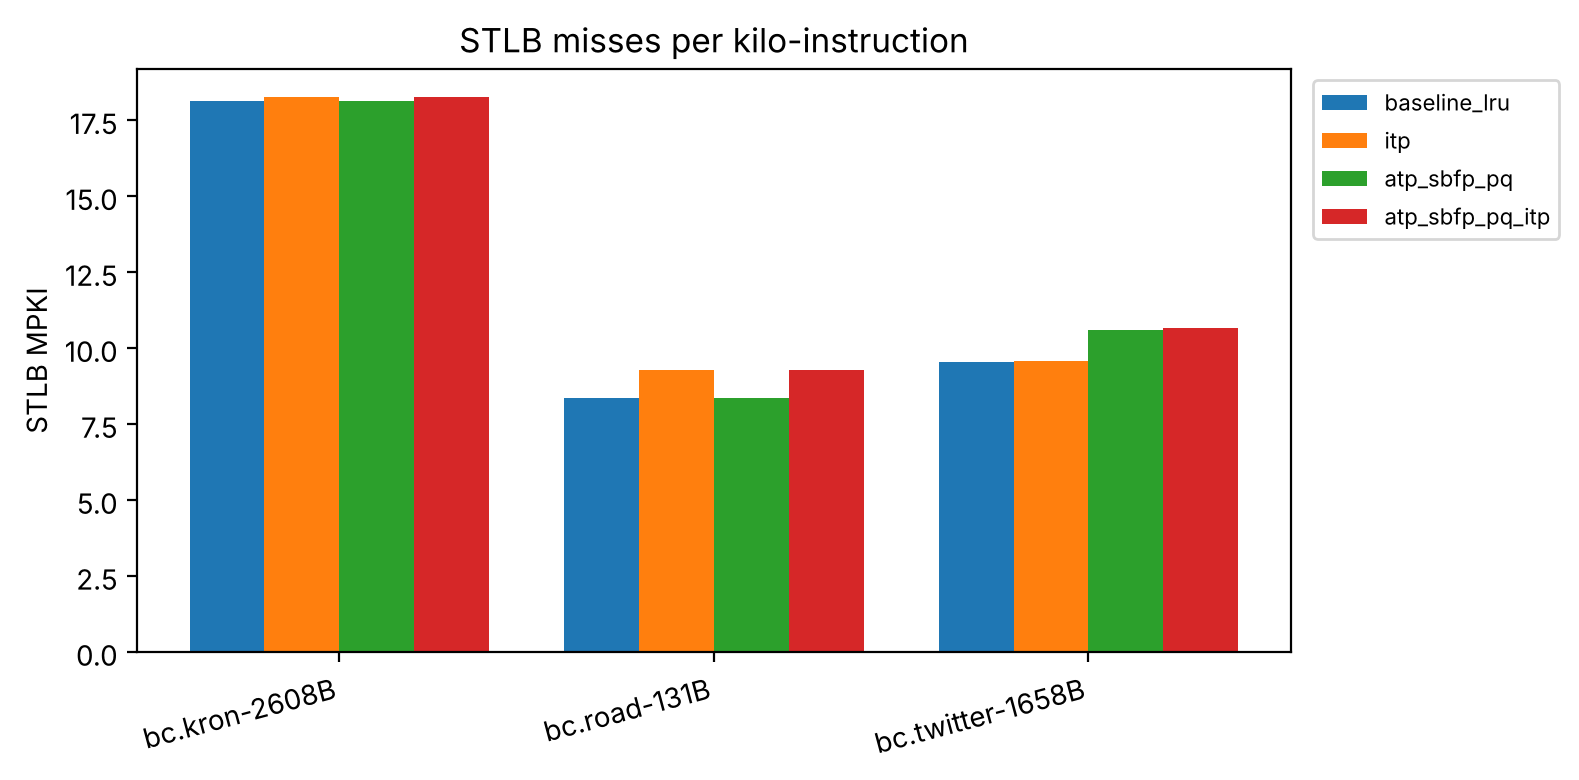
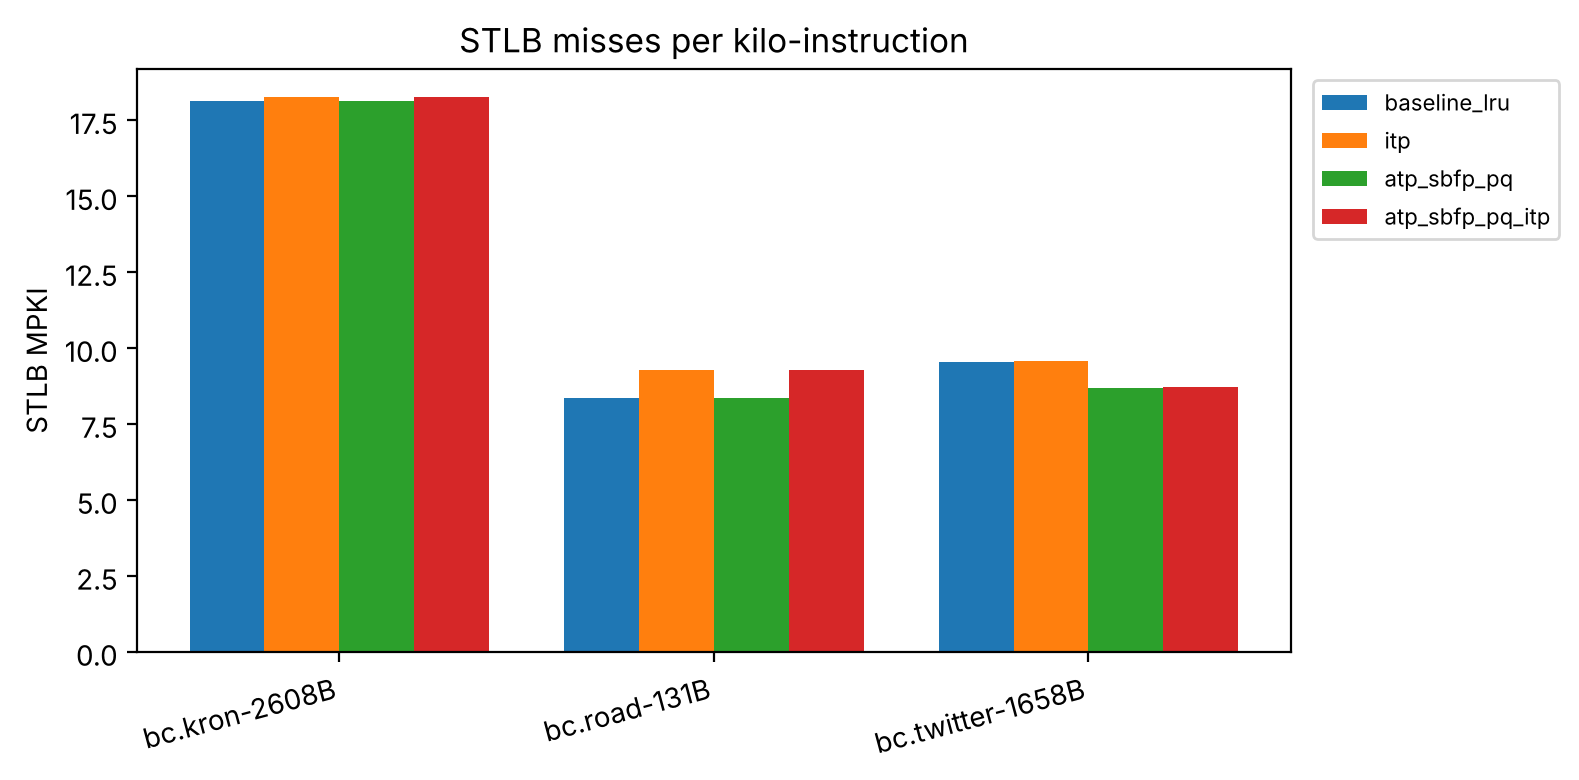
docs: add GAP performance table, regular-trace figures, cache-energy file notes and repository tree entries
Claude-Session: https://claude.ai/code/session_01HS8Bm9t4qUbVwnKy3XUZC8

Changed region(s): [[0.6827, 0.4, 0.8068, 0.5231]]

diff --git a/README.md b/README.md
@@ -57,7 +57,7 @@ Both can reduce page walks, but speculative prefetches consume energy and affect
 |---|---|---|---|
 | `baseline_lru` | Evict the least recently used STLB entry; no prefetching | Reference | 1 (tied with iTP) |
 | `itp` | Instruction translations are kept longer; data translations are inserted near the eviction end (no xPTP) | Data page walks rise (+20% to +121% on SPEC, 0% to +11% on GAP), so SPEC is slower (−0.3% to −2.1%); GAP speed within +0.2% | 1 (+0.2% on SPEC; −0.5% to −0.1% on GAP) |
-| `atp_sbfp_pq` | ATP predicts future pages; SBFP keeps useful neighbour PTEs from each walk in a separate 64-entry queue, so the STLB is not polluted | Walks −5% to −38% except `bc.kron-2608B` (0%); speed within about 0.1% except +2.0% on `bc.twitter-1658B` | 2 (+4% to +14%) |
+| `atp_sbfp_pq` | ATP predicts future pages; SBFP keeps useful neighbour PTEs from each walk in a separate 64-entry queue, so the STLB is not polluted | Walks −5% to −38.5% except `bc.kron-2608B` (0%); speed within about 0.1% except +2.0% on `bc.twitter-1658B` | 2 (+4% to +14%) |
 | `atp_sbfp_pq_itp` | Both | iTP's extra data walks partly cancel the queue's savings on SPEC; on GAP about the same as `atp_sbfp_pq` | 3 on SPEC (+5% to +15%); about tied with 2 on GAP |
 | `atp_sbfp`, `atp_sbfp_itp` | Free PTEs fill the STLB directly | Pollutes the STLB; at 10M + 20M the worst energy (up to +43% on `429.mcf-51B`) | 4 (SPEC 10M + 20M only) |
 
@@ -222,7 +222,12 @@ These traces supplement the original DPC-3 screening results rather than replaci
 ├── prototypes/                   ChampSim patches and modules: ptw-counters, itp (+instruction flag), atp, sbfp
 ├── energy/
 │   ├── energy_fusion.py          Counters × CACTI energy → energy, speedup, EDP
-│   └── cacti_per_access.csv      Per-access energy and leakage per structure
+│   ├── cacti_per_access.csv      Per-access energy and leakage per structure (main tables)
+│   └── cacti_with_caches.csv     Same plus L1D, L2C, LLC rows (cache-energy sensitivity)
+├── docs/
+│   ├── energy-accounting.md      Counter-to-energy mapping and assumptions
+│   ├── cacti-sensitivity.md      STLB CACTI runs, 22 nm sensitivity, DRAM estimate
+│   └── figures/                  Plots: spec/, gap/, regular/, analysis/
 ├── docker/Dockerfile             Optional reproducible toolchain
 └── third_party/ , traces/ , results/raw/   Generated locally, not tracked by git
 ```
@@ -363,7 +368,30 @@ Same method and scenarios as above, on the shorter 10M warmup + 20M simulated wi
 
 - Same picture at 20M: LRU is cheapest, iTP is neutral in energy and slower, and the prefetch configurations cost +2% to +16% (up to +43% for `atp_sbfp_itp` on `429.mcf-51B`). Direct-fill SBFP adds extra STLB fill traffic, which is why `atp_sbfp` and `atp_sbfp_itp` cost the most; the separate prefetch queue avoids that.
 
-### Estimated translation energy (GAP, 20M + 100M, four required configurations)
+### GAP traces (20M + 100M, four required configurations)
+
+Same measurement and definitions as the SPEC table above (page walks include prefetch walks). Figures are made by `scripts/plot_results.py` from this data.
+
+| Trace | Config | IPC | Speedup vs LRU | STLB MPKI | Page walks | Walks vs LRU |
+|---|---|---|---|---|---|---|
+| `bc.kron-2608B` | `baseline_lru` | 0.2510 | 1.0000 | 18.15 | 1,814,644 | — |
+|  | `itp` | 0.2510 | 0.9999 | 18.28 | 1,828,107 | +0.7% |
+|  | `atp_sbfp_pq` | 0.2510 | 1.0000 | 18.15 | 1,810,048 | −0.3% |
+|  | `atp_sbfp_pq_itp` | 0.2510 | 0.9999 | 18.28 | 1,822,518 | +0.4% |
+| `bc.road-131B` | `baseline_lru` | 0.1397 | 1.0000 | 8.37 | 836,505 | — |
+|  | `itp` | 0.1399 | 1.0020 | 9.28 | 927,888 | +10.9% |
+|  | `atp_sbfp_pq` | 0.1398 | 1.0011 | 8.36 | 514,241 | −38.5% |
+|  | `atp_sbfp_pq_itp` | 0.1401 | 1.0031 | 9.29 | 607,733 | −27.3% |
+| `bc.twitter-1658B` | `baseline_lru` | 0.3778 | 1.0000 | 9.55 | 955,310 | — |
+|  | `itp` | 0.3778 | 1.0000 | 9.57 | 957,447 | +0.2% |
+|  | `atp_sbfp_pq` | 0.3854 | 1.0202 | 8.68 | 770,340 | −19.4% |
+|  | `atp_sbfp_pq_itp` | 0.3862 | 1.0223 | 8.73 | 778,027 | −18.6% |
+
+![Speedup vs baseline_lru, GAP](docs/figures/gap/speedup.png)
+![Page walks relative to baseline_lru, GAP](docs/figures/gap/page_walks.png)
+![STLB MPKI, GAP](docs/figures/gap/stlb_mpki.png)
+
+#### Estimated translation energy (GAP)
 
 Same method and scenarios as the SPEC energy table above.
 
@@ -406,6 +434,10 @@ To cover the regular side of objective 3 we ran three dense scientific SPEC trac
 |  | `itp` | 1.8327 | 1.0000 | 0.004 | 395 | 395 | 0 | 1.000 / 1.000 | 1.000 | 1.000 |
 |  | `atp_sbfp_pq` | 1.8346 | 1.0010 | 0.000 | 0 | 422 | 422 | 1.036 / 1.035 | 1.035 | 1.037 |
 |  | `atp_sbfp_pq_itp` | 1.8346 | 1.0010 | 0.000 | 0 | 422 | 422 | 1.036 / 1.035 | 1.035 | 1.037 |
+
+![Speedup vs baseline_lru, regular traces](docs/figures/regular/speedup.png)
+![Page walks relative to baseline_lru, regular traces](docs/figures/regular/page_walks.png)
+![Speedup against estimated energy, regular traces](docs/figures/regular/pareto.png)
 
 What the regular traces show:
 - **iTP does nothing.** Speed is within 0.02% and energy within 0.1% of LRU. With this little STLB pressure there is almost nothing to replace.
@@ -477,7 +509,7 @@ Because energy is lowest for LRU or iTP and speed is highest for a prefetching c
 
 - SPEC traces (`429.mcf-51B`, `620.omnetpp_s-874B`, `623.xalancbmk_s-700B`) have STLB demand miss ratios of 14%, 21% and 6%, so there is reuse for the replacement policy to disturb: iTP changes page walks by +20% to +121% and slows execution.
 - `bc.kron-2608B` and `bc.twitter-1658B` miss on 98% of STLB demand lookups, so replacement has almost nothing to act on (iTP changes walks by about 0%). `bc.road-131B` is in between (56%).
-- ATP+SBFP removes the most walks on `bc.road-131B` (−38%, speed +0.1%) and `bc.twitter-1658B` (−19%, speed +2.0%). Why `bc.kron-2608B` shows no change under ATP+SBFP is not established by our data.
+- ATP+SBFP removes the most walks on `bc.road-131B` (−38.5%, speed +0.1%) and `bc.twitter-1658B` (−19%, speed +2.0%). Why `bc.kron-2608B` shows no change under ATP+SBFP is not established by our data.
 - Reading the miss ratios as thrashing versus reuse is our interpretation; we did not run an experiment that isolates it. The instruction share of the SPEC traces is small (about 0% for `429.mcf-51B`, about 1.6% for `623.xalancbmk_s-700B`), which is consistent with iTP's data-side cost being visible, but we did not test that link.
 
 ### Consistency with published work

diff --git a/docs/cacti-sensitivity.md b/docs/cacti-sensitivity.md
@@ -22,6 +22,6 @@ CACTI does not provide the exact 1,536-entry capacity, so use linear interpolati
 | Write energy | 2.538 | 2.274 | -10.43% |
 | Leakage | 2.022 | 1.949 | -3.61% |
 
-Use 56 nJ per 64-byte DRAM read as the baseline estimate. David et al. report this for DDR3 at 1333 MHz with two DIMMs per channel; it includes array read, I/O, termination, and activate/precharge energy. It is an estimate under those assumptions, not a measurement of our machine. Apply it per LLC TRANSLATION MISS when that counter represents one DRAM read.
+Use 56 nJ per 64-byte DRAM read as the baseline estimate. David et al. report this for DDR3 at 1333 MHz with two DIMMs per channel; it includes array read, I/O, termination, and activate/precharge energy. It is an estimate under those assumptions, not a measurement of our machine. Apply it per LLC TRANSLATION MISS when that counter represents one DRAM read. In Table 2 this value is the "Average energy/read, page-closed policy, 2 DIMMs/channel" row (18 nJ array read + 1 nJ read I/O + 12 nJ extra termination + 25 nJ activate and precharge), so reads that hit an open page would cost less. The 800 MHz row is 64.7 nJ.
 
-**Source:** H. David, C. Fallin, E. Gorbatov, U. R. Hanebutte, and O. Mutlu, “Memory Power Management via Dynamic Voltage/Frequency Scaling,” *Proc. 8th ACM Int. Conf. on Autonomic Computing (ICAC)*, 2011, pp. 31–40, Table 2. DOI: https://doi.org/10.1145/1998582.1998590. One memory access is 64 bytes.
+**Source:** H. David, C. Fallin, E. Gorbatov, U. R. Hanebutte, and O. Mutlu, “Memory Power Management via Dynamic Voltage/Frequency Scaling,” *Proc. 8th ACM Int. Conf. on Autonomic Computing (ICAC)*, 2011, pp. 31–40, Table 2. DOI: https://doi.org/10.1145/1998582.1998590. The access size (64 bytes per read) is our assumption; Table 2's caption does not state it.

diff --git a/docs/energy-accounting.md b/docs/energy-accounting.md
@@ -4,7 +4,9 @@
 values, and an explicit DRAM-read estimate. All energy results are estimates.
 Missing required CACTI values leave totals and EDP blank. L1D, L2C, and LLC rows
 are optional; if one is unavailable, its page-walk cache energy is excluded and
-the result is labeled accordingly.
+the result is labeled accordingly. `energy/cacti_with_caches.csv` fills these
+three rows (dynamic energy only, 90 nm) for the cache-energy sensitivity in the
+README; the main tables use `energy/cacti_per_access.csv`, where they stay TBD.
 
 ## Counters and energy
 
